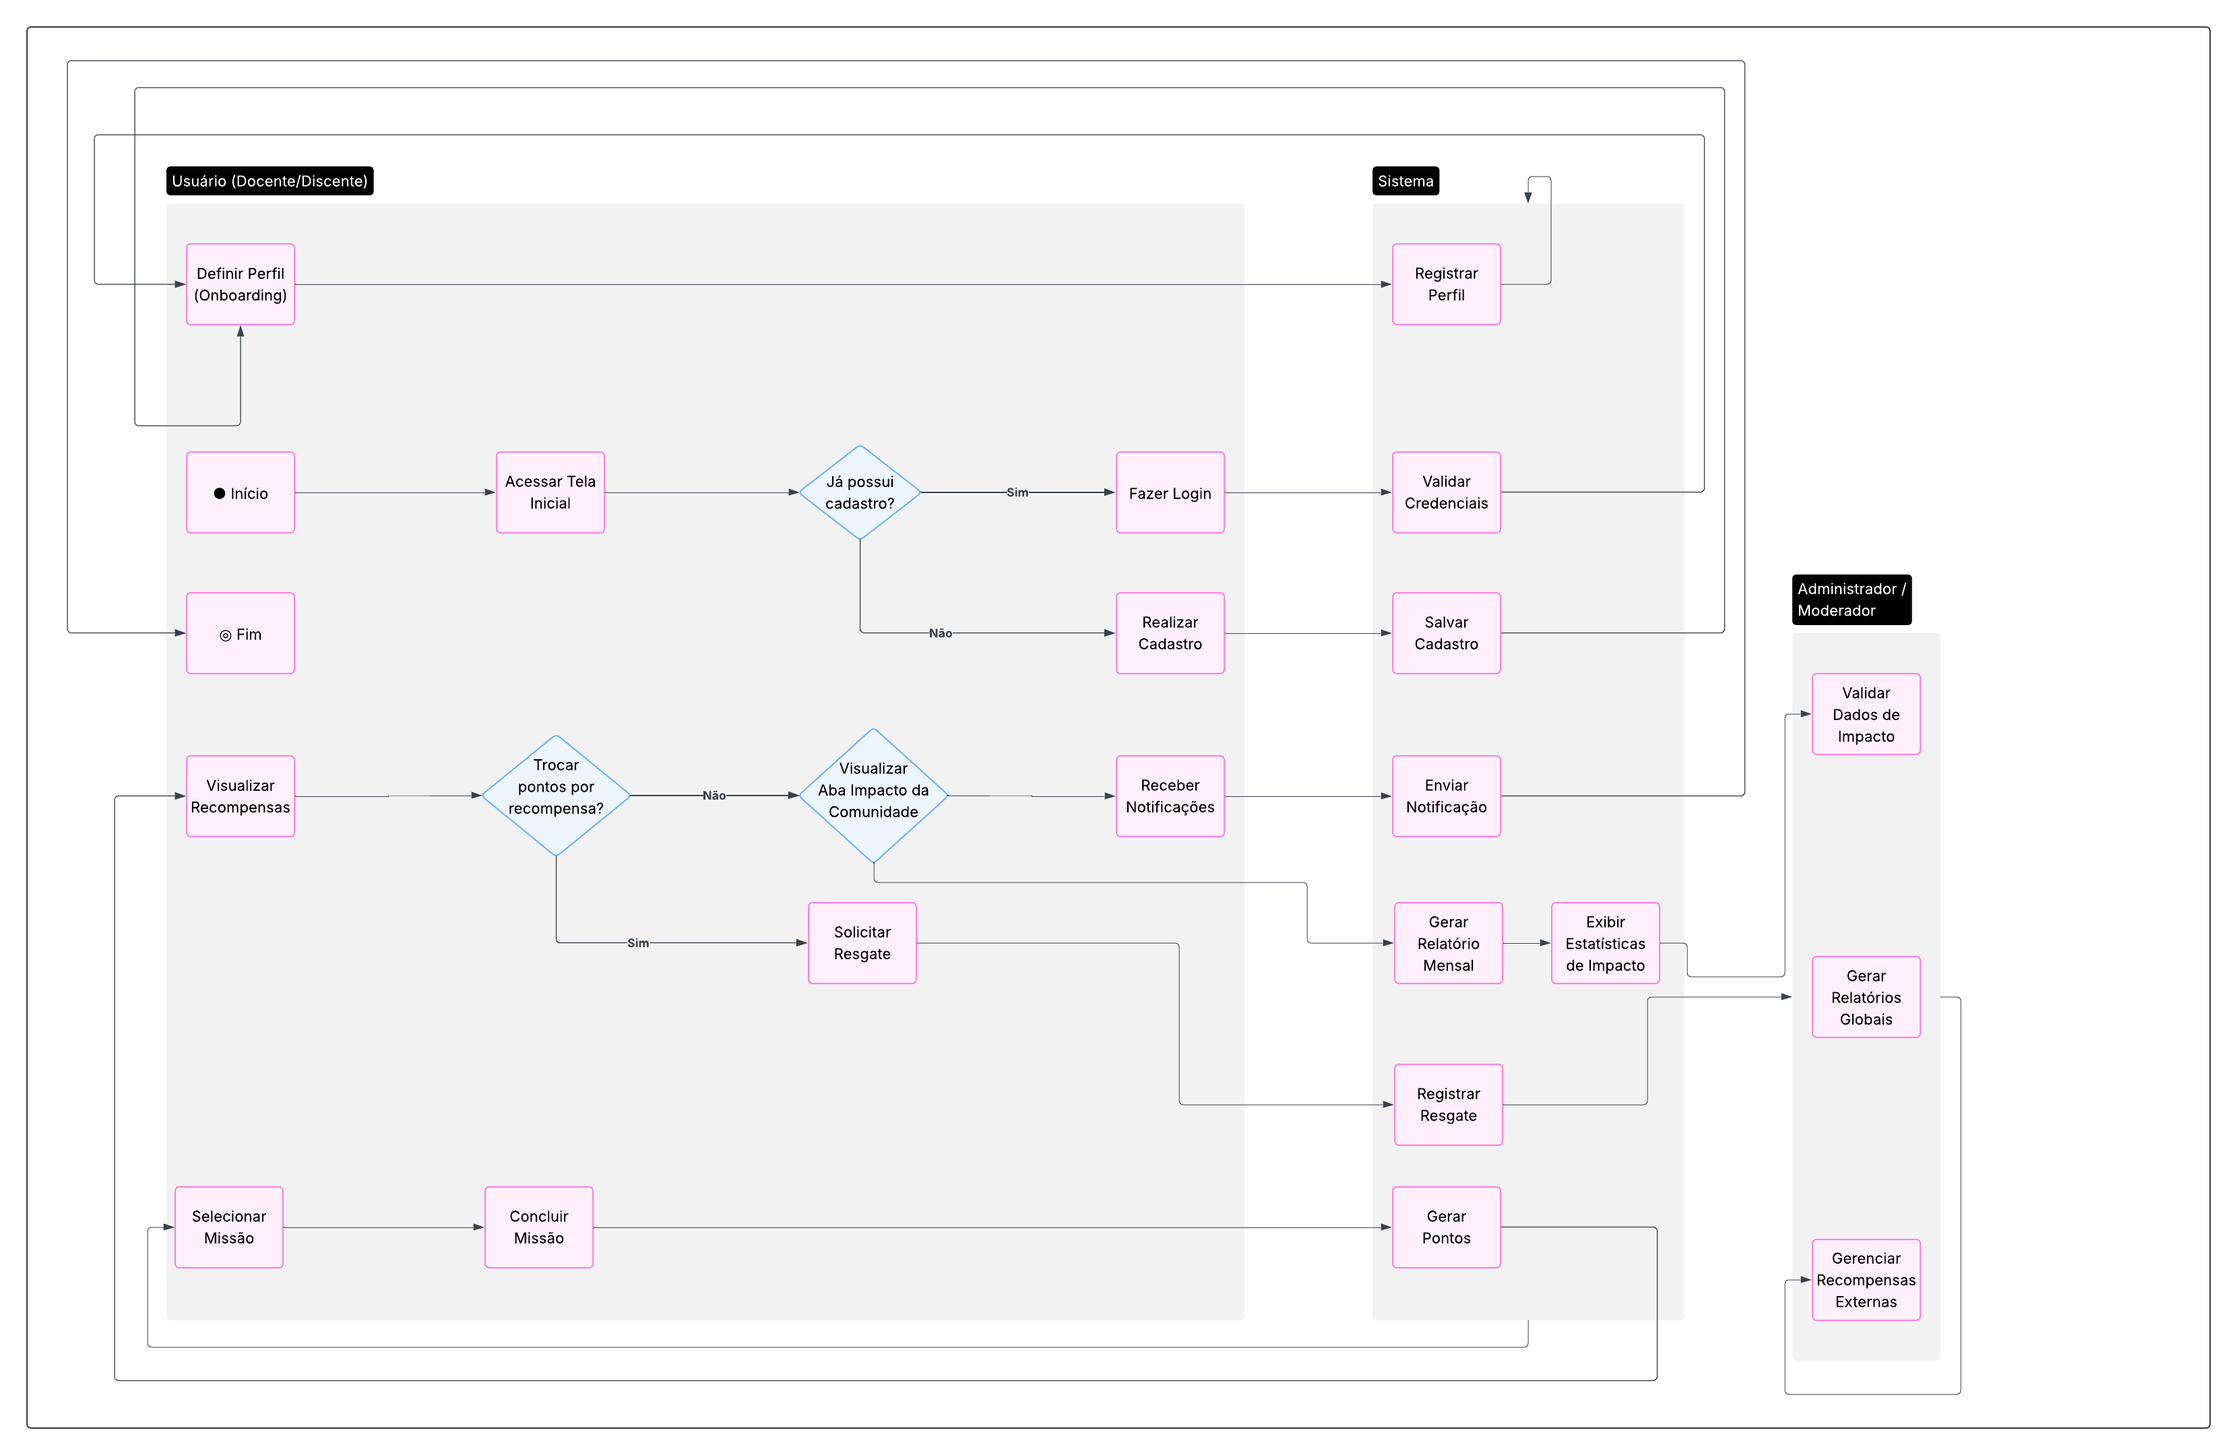
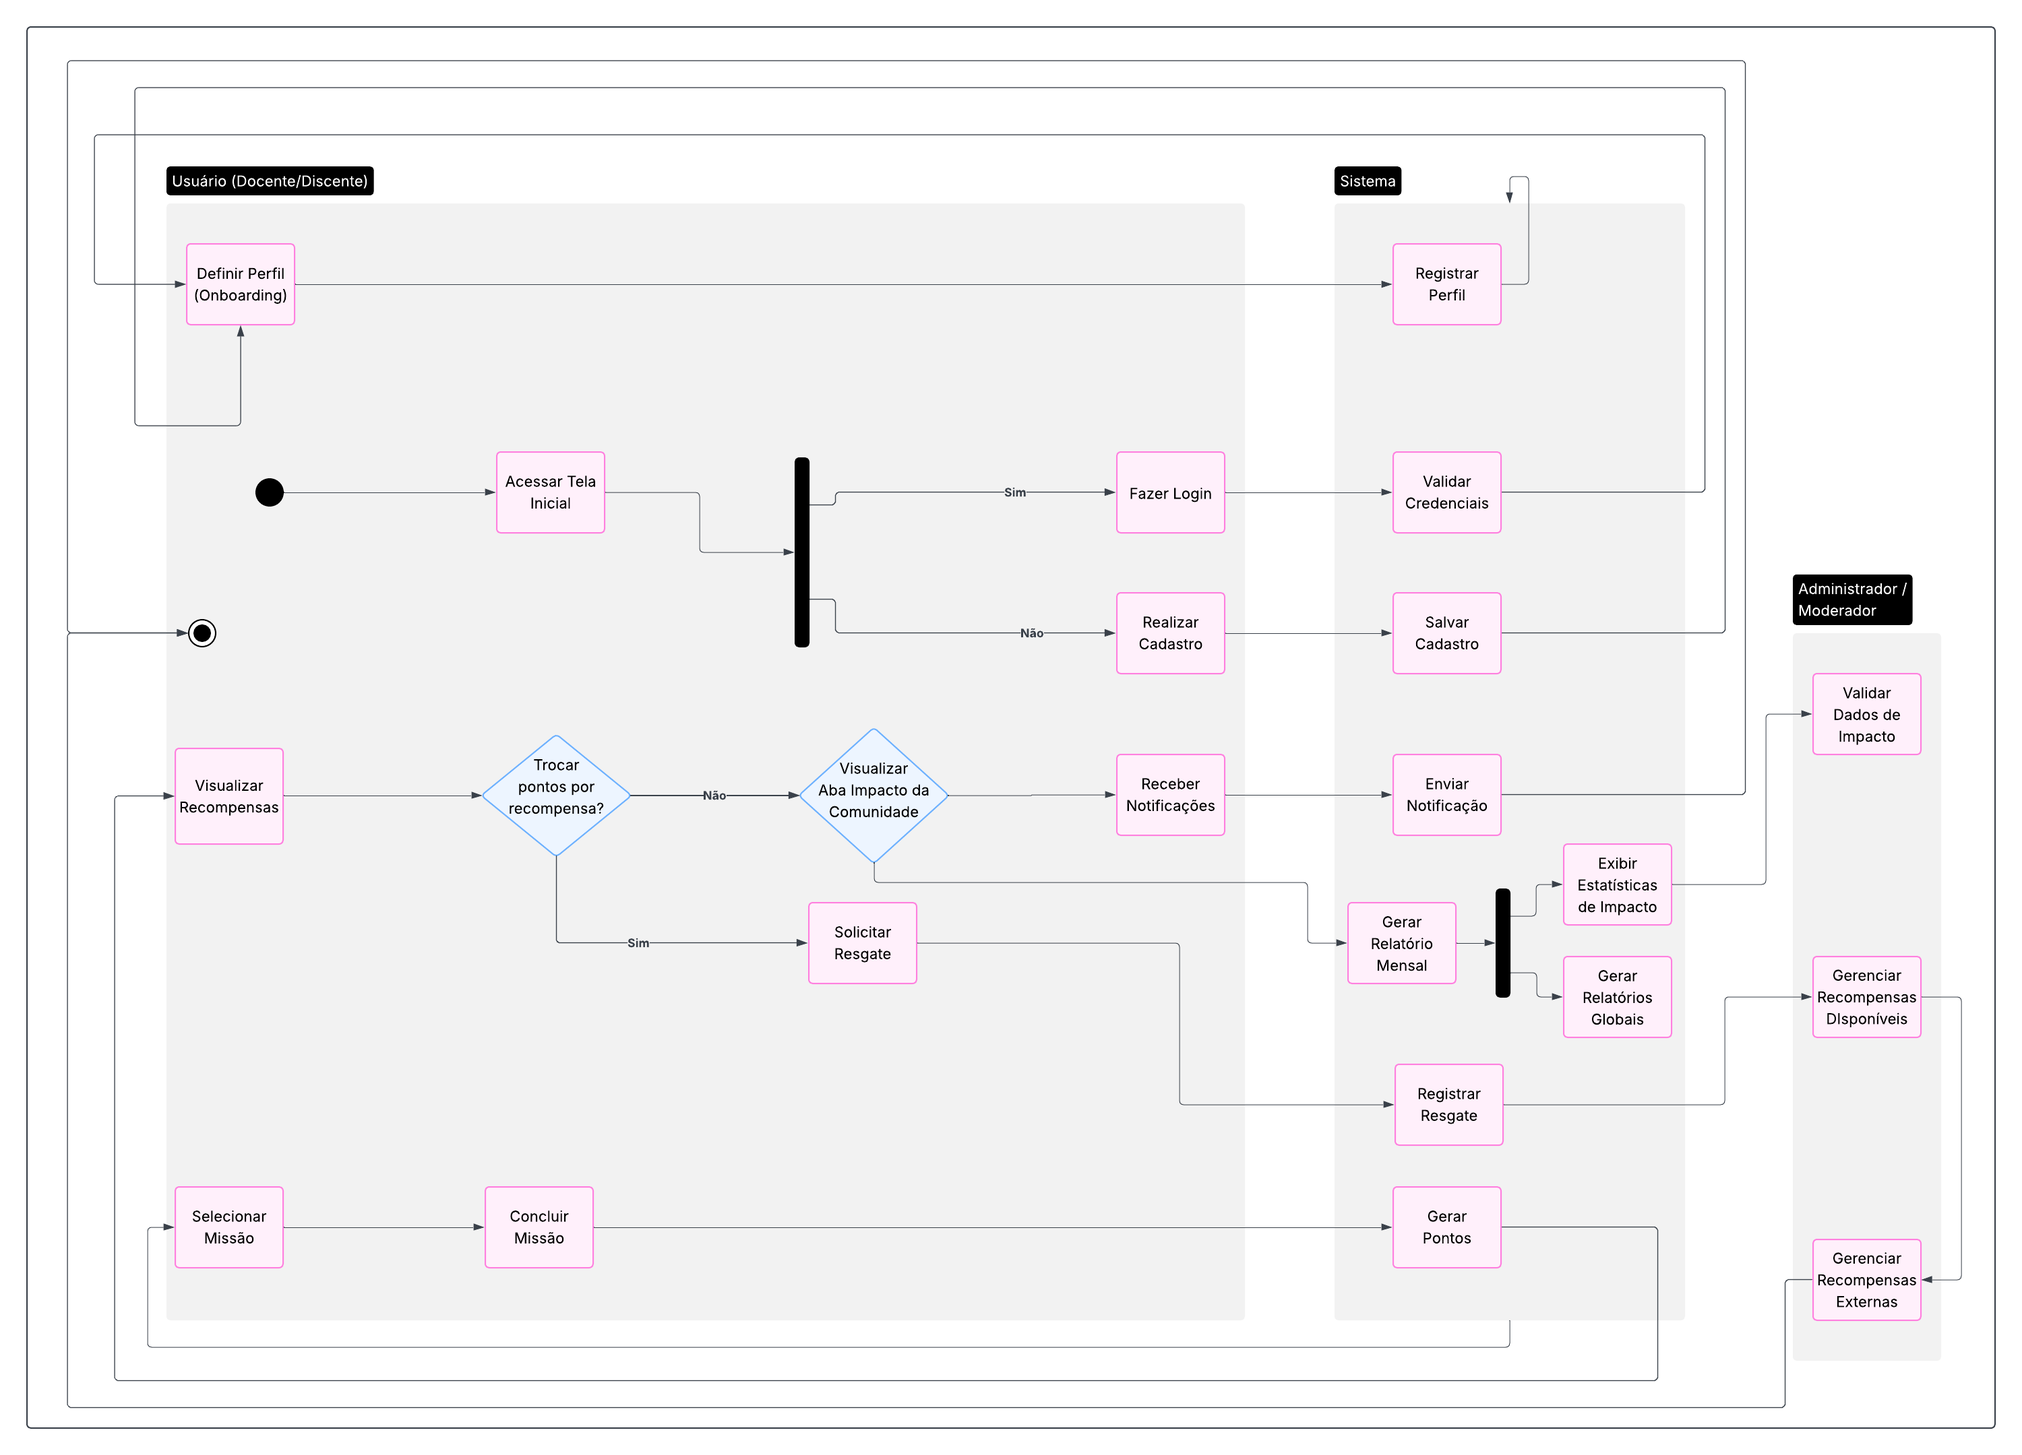
docs: ajustando diagramas e documentacao

diff --git a/docs/Modelagem/2.2.2.DiagramaAtividades.md b/docs/Modelagem/2.2.2.DiagramaAtividades.md
@@ -1,4 +1,4 @@
-### **Diagrama de Atividades do Projeto SustentabilizeJá**
+### **Diagrama de Atividades**
 
 #### **Introdução**
 
@@ -6,27 +6,23 @@ O diagrama de atividades, conforme definido pela UML (Unified Modeling Language)
 
 #### **Metodologia**
 
-Para a construção do modelo, foi elaborado um diagrama que abrange todas as atividades consideradas relevantes para o funcionamento da plataforma. O diagrama de atividades consolida os diferentes fluxos de interação, tanto do usuário (docente/discente) quanto do sistema e do administrador. As principais atividades modeladas para o projeto **SustentabilizeJá** são:
+Para a construção do modelo, foi elaborado um diagrama que abrange todas as atividades consideradas relevantes para o funcionamento da plataforma. O diagrama de atividades consolida os diferentes fluxos de interação, tanto do usuário (docente/discente) quanto do sistema e do administrador/moderador. As principais atividades modeladas para o projeto **SustentabilizeJá** são:
 
-* Onboarding e Definição de Perfil;
-* Cadastro e Login de Usuário;
-* Seleção e Conclusão de Missões;
-* Visualização do Impacto da Comunidade;
-* Visualização e Resgate de Recompensas;
-* Geração de Relatórios e Pontos pelo Sistema;
-* Gerenciamento de Dados e Recompensas pelo Administrador.
+* Definição de Perfil (Onboarding) e Registro de Perfil;
+* Acesso à Tela Inicial, Login e Cadastro de Usuário;
+* Visualização de Recompensas e Decisão de Troca de Pontos;
+* Solicitação de Resgate de Recompensas;
+* Visualização da Aba de Impacto da Comunidade e Recebimento de Notificações;
+* Seleção e Conclusão de Missões e Geração de Pontos;
+* Exibição de Estatísticas de Impacto, Geração de Relatórios (Mensal e Global);
+* Gerenciamento de Dados de Impacto, Recompensas Disponíveis e Recompensas Externas pelo Administrador/Moderador.
 
-A seguir, a figura com o diagrama de atividades elaborado para o projeto.
+#### **Diagrama e Descrição dos Fluxos**
 
-**Figura 1: Diagrama de Atividades - SustentabilizeJá**
+A seguir, a figura com o diagrama de atividades elaborado para o projeto, seguida pela tabela de descrição dos fluxos.
 
 <center>
-<font size="3"><p style="text-align: center"><b>Figura 1.</b>  Legenda do Diagrama de Atividades do SustentabilizeJa </p></font>
-
-![Legenda](../assets/LegendaDiagramaAtividades.png)
-
-<br>
-<font size="3"><p style="text-align: center"><b>Figura 2.</b>  Diagrama de Atividades do SustentabilizeJa </p></font>
+<font size="3"><p style="text-align: center"><b>Figura 1.</b>  Diagrama de Atividades do SustentabilizeJa </p></font>
 
 ![Diagrama de Atividades](../assets/DiagramaAtividades.png)
 
@@ -37,15 +33,23 @@ A tabela abaixo apresenta descrições sucintas sobre os principais fluxos prese
 
 **Tabela 1: Breve descrição dos fluxos do diagrama de atividades do SustentabilizeJá**
 
-| Fluxo                                    | Descrição                                                                                                                                    |
-| :--------------------------------------- | :------------------------------------------------------------------------------------------------------------------------------------------- |
-| **Onboarding e Definição de Perfil** | Processo inicial onde o usuário, ao entrar na plataforma, define seu perfil como docente ou discente.                                         |
-| **Cadastro e Login** | Verifica se o usuário já possui cadastro. Direciona para a tela de login para validação de credenciais ou para a tela de registro de um novo usuário. |
-| **Execução de Missões** | Detalha o percurso do usuário ao selecionar uma missão, concluí-la e ter seus pontos gerados e contabilizados pelo sistema.                  |
-| **Visualização de Impacto e Recompensas**| Permite ao usuário consultar a aba de impacto da comunidade, visualizar as recompensas disponíveis e decidir se deseja trocar seus pontos.     |
-| **Solicitação de Resgate** | Representa a ação do usuário de solicitar a troca de seus pontos por uma recompensa, que é registrada pelo sistema.                            |
-| **Fluxo do Administrador/Sistema** | Engloba as atividades de backend, como validar os dados de impacto, gerar relatórios globais e mensais, e gerenciar as recompensas externas. |
-| **Encerramento** | Simboliza o fim de uma interação ou fluxo específico dentro da plataforma.                                                                    |
+| Fluxo                                       | Descrição                                                                                                                                                                                                                                                                                                                                                                                           |
+| :------------------------------------------ | :-------------------------------------------------------------------------------------------------------------------------------------------------------------------------------------------------------------------------------------------------------------------------------------------------------------------------------------------------------------------------------------------------- |
+| **Definição e Registro de Perfil** | Processo inicial onde o usuário define seu perfil (docente/discente) durante o onboarding, e o sistema registra essa informação, configurando o perfil do usuário na plataforma.                                                                                                                                                                                                                    |
+| **Acesso, Login e Cadastro** | O usuário acessa a tela inicial. Se já tiver cadastro, realiza o login validando suas credenciais. Caso contrário, é direcionado para a tela de registro de um novo usuário, onde o sistema salva o cadastro e registra o perfil.                                                                                                                                                                |
+| **Visualização de Recompensas e Decisão** | Após o login, o usuário pode visualizar as recompensas disponíveis. Uma decisão é tomada: se deseja trocar pontos por recompensas ("Sim") ou continuar a interação sem resgate ("Não"), seguindo para outras funcionalidades como a visualização do impacto da comunidade ou o recebimento de notificações.                                                                                      |
+| **Solicitação de Resgate** | Se o usuário decidir trocar pontos por recompensas, ele solicita o resgate. O sistema registra essa solicitação e posteriormente a encaminha para gerenciamento do administrador/moderador.                                                                                                                                                                                                       |
+| **Impacto da Comunidade e Notificações** | O usuário pode visualizar a aba de impacto da comunidade, que exibe estatísticas gerais e relatórios. Além disso, o sistema envia e o usuário recebe notificações importantes.                                                                                                                                                                                                                    |
+| **Seleção, Conclusão de Missões e Pontuação** | O usuário seleciona uma missão, realiza as atividades propostas e a conclui. Em seguida, o sistema gera os pontos correspondentes à missão e os registra no perfil do usuário.                                                                                                                                                                                                                        |
+| **Gerenciamento do Administrador/Moderador** | Engloba as atividades de backend e gestão: o administrador/moderador valida os dados de impacto, gerencia as recompensas disponíveis para os usuários, gera relatórios mensais e globais, e cuida do gerenciamento de recompensas externas.                                                                                                                                                         |
+| **Encerramento** | Representa o fim de um fluxo de atividades específico dentro da plataforma, indicando um ponto de conclusão ou retorno a um estado inicial, como o logout ou a finalização de uma ação.                                                                                                                                                                                                                |
+
+## **Referências**
+
+[1] OMG. *Unified Modeling Language (UML) Specification*. Disponível em: `https://www.omg.org/spec/UML`. Acesso em: 06 mai. 2025.
+<br>[2] Kirill Fakhroutdinov. *Activity Diagrams*. Disponível em: `https://www.uml-diagrams.org/activity-diagrams.html`. Acesso em: 06 mai. 2025.
+<br>[3] IBM. *Criando Diagramas de Atividades*. Disponível em: `https://www.ibm.com/docs/pt-br/rational-soft-arch/9.7.0?topic=diagrams-creating-activity`. Acesso em: 09 mai. 2025.
+<br>[4] LucidChart. *O que é diagrama de atividades UML?*. Disponível em: `https://www.lucidchart.com/pages/pt/o-que-e-diagrama-de-atividades-uml#:~:text=familiarizadas%20com%20UML,guia%20lhe%20ensinar%C3%A1%20no%C3%A7%C3%B5es%20b%C3%A1sicas`. Acesso em: 09 mai. 2025.                                                              |
 
 
 ## Histórico de Versões

diff --git a/docs/Modelagem/2.1.2.DiagramaComponentes.md b/docs/Modelagem/2.1.2.DiagramaComponentes.md
@@ -1,4 +1,4 @@
-### **Diagrama de Componentes - SustentabilizeJá**
+### **Diagrama de Componentes**
 
 #### **Introdução**
 
@@ -19,12 +19,7 @@ Para a elaboração do diagrama, a equipe seguiu um processo estruturado:
 A seguir, a figura com o diagrama de componentes elaborado para o projeto.
 
 <center>
-<font size="3"><p style="text-align: center"><b>Figura 1.</b>  Legenda do Diagrama de Componentes do SustentabilizeJa </p></font>
-
-![Legenda](../assets/LegendaDiagramaComponentes.png)
-
-<br>
-<font size="3"><p style="text-align: center"><b>Figura 2.</b>  Diagrama de Componentes do SustentabilizeJa </p></font>
+<font size="3"><p style="text-align: center"><b>Figura 1.</b>  Diagrama de Componentes do SustentabilizeJa </p></font>
 
 ![Diagrama de Componentes](../assets/DiagramaComponentes.png)
 
@@ -33,20 +28,28 @@ A seguir, a figura com o diagrama de componentes elaborado para o projeto.
 
 **Descrição:** O Diagrama de Componentes (Figura 1) ilustra a arquitetura lógica da aplicação **SustentabilizeJá**, organizada em camadas claras de responsabilidade:
 
-* **UI FrontEnd (Views):** Esta camada agrupa todos os componentes de visualização, que formam a interface direta com o usuário. Cada `View` (como `Login View`, `Desafios e Missões View` e `Relatórios Mensais View`) é responsável por renderizar uma tela específica e capturar as interações do usuário.
+* **UI FrontEnd (Views):** Esta camada agrupa todos os componentes de interface que interagem diretamente com o usuário. Cada `View` é responsável por uma funcionalidade específica, como `Login View`, `Cadastro View`, `Impacto da Comunidade View`, `Desafios e Missões View`, `Notificações View`, `Perfil e Onboarding View`, `Relatórios Mensais View` e `Sistema de Pontos e Recompensas View`.
 
-* **Camada de Serviços (Services):** Representa o núcleo da lógica de negócio da aplicação. Cada `View` se comunica com um `Service` correspondente (ex: `Cadastro View` interage com `CadastroService`), que é responsável por processar as requisições, aplicar as regras de negócio e orquestrar as operações necessárias.
+* **Camada de Serviços (Services):** Representa o núcleo da lógica de negócio. Para cada `View`, há um `Service` correspondente (`LoginService`, `CadastroService`, `ImpactoService`, etc.) que processa as requisições, aplica as regras de negócio e coordena a comunicação com a camada de dados.
 
-* **AuthenticatorManager:** É um componente de gestão centralizado, responsável especificamente pela lógica de autenticação e registro. Ele recebe as solicitações dos componentes `LoginService` e `CadastroService` para validar credenciais e gerenciar o acesso dos usuários de forma segura.
+* **AuthenticatorManager:** É um componente centralizado que gerencia a autenticação e autorização. Ele interage com o `LoginService` e o `CadastroService` para validar credenciais e consultar os dados do usuário no banco de dados, garantindo a segurança do acesso.
 
-* **Banco de Dados:** Este componente representa a camada de persistência. Ele é acessado diretamente tanto pelo `AuthenticatorManager` (para dados de usuários) quanto por diversos `Services` (como `RecompensaService`, `ImpactoService` e `DesafiosService`) para armazenar e recuperar todas as informações da plataforma.
+* **Banco de Dados:** Este componente central representa a camada de persistência de dados. Ele é o repositório único de informações, acessado por todos os `Services` e pelo `AuthenticatorManager` para consultar e armazenar dados sobre usuários, métricas, desafios, notificações, perfis, relatórios e recompensas.
 
-O fluxo geral se inicia na `UI FrontEnd`, passa pela camada de `Services` que processa a lógica, e finaliza com a interação com o `AuthenticatorManager` ou diretamente com o `Banco de Dados` para a manipulação dos dados.
+O fluxo de interação geralmente começa em uma `View` na **UI FrontEnd**, que envia uma requisição para o `Service` correspondente. O `Service` processa a lógica e, quando necessário, interage com o **Banco de Dados** (ou com o **AuthenticatorManager** para fins de login/cadastro) para completar a operação.
 
 #### **Conclusão**
 
 A construção deste diagrama de componentes foi essencial para a equipe, pois permitiu detalhar a arquitetura lógica e o fluxo de dados do **SustentabilizeJá**. A clara separação de responsabilidades entre as camadas de visualização (`Views`), lógica de negócio (`Services`) e persistência (`Banco de Dados`) não só facilita o desenvolvimento paralelo, mas também promove a manutenibilidade e a escalabilidade futuras do sistema.
 
+---
+
+#### **Referências**
+
+[1] Lucidchart. *Diagrama de componentes UML: o que é, como fazer e exemplos*. Disponível em: `https://www.lucidchart.com/pages/pt/diagrama-de-componentes-uml`. Acesso em: 08 de maio de 2025.
+<br>[2] Creately. *Tutorial de diagrama de componentes*. Disponível em: `https://creately.com/blog/pt/diagrama/tutorial-de-diagrama-de-componentes-2/`. Acesso em: 08 de maio de 2025.
+<br>[3] IBM. *Diagramas de Componentes*. Disponível em: `https://www.ibm.com/docs/pt-br/engineering-lifecycle-management-suite/systems-design-rhapsody/8.4.0?topic=uml-component-diagrams`. Acesso em: 10 de maio de 2025.
+<br>[4] SPARX SYSTEMS. *Component Diagram*. Disponível em: `https://sparxsystems.com/resources/tutorials/uml2/component-diagram.html`. Acesso em: 10 de maio de 2025.
 
 ## Histórico de Versões
 
